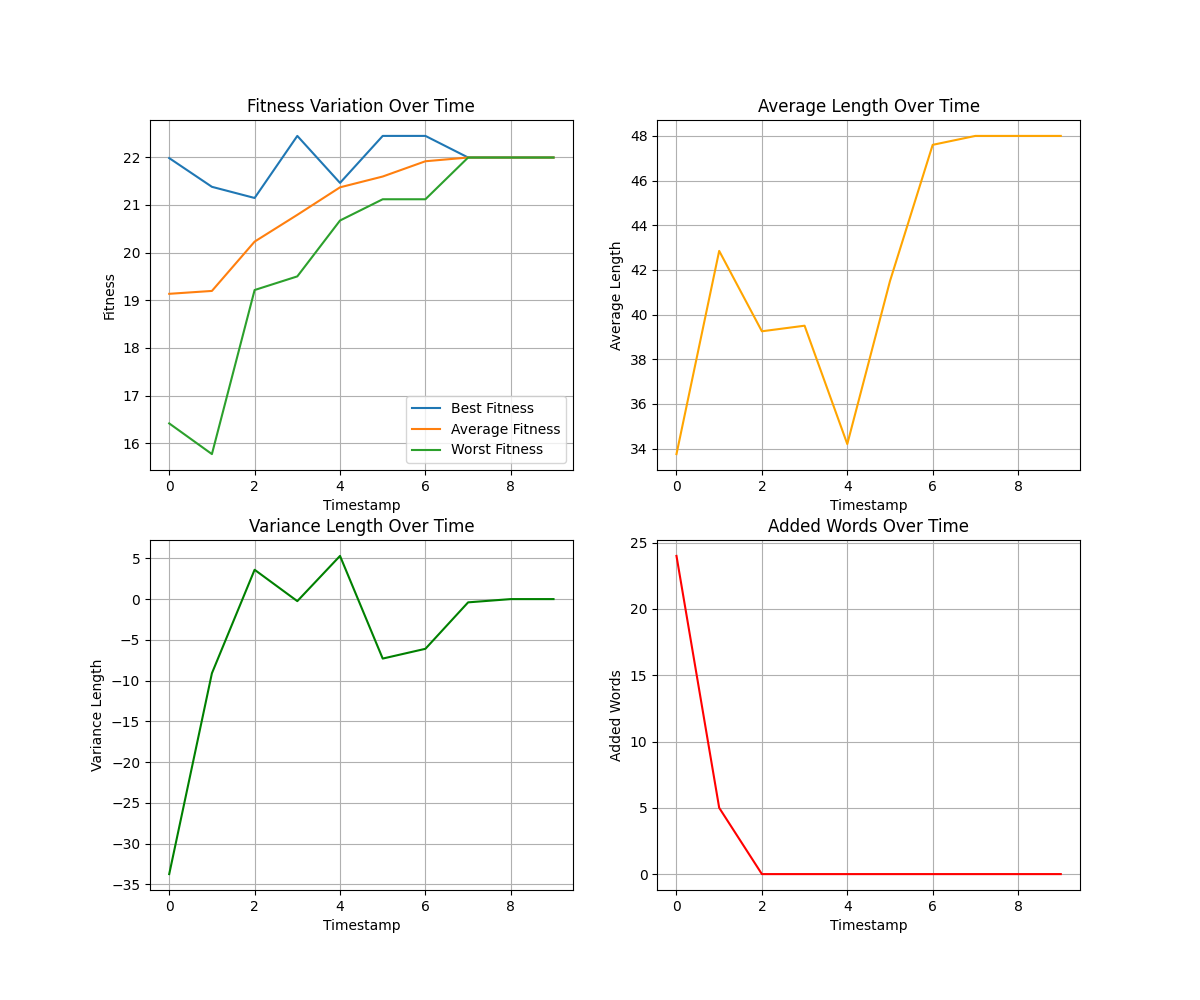
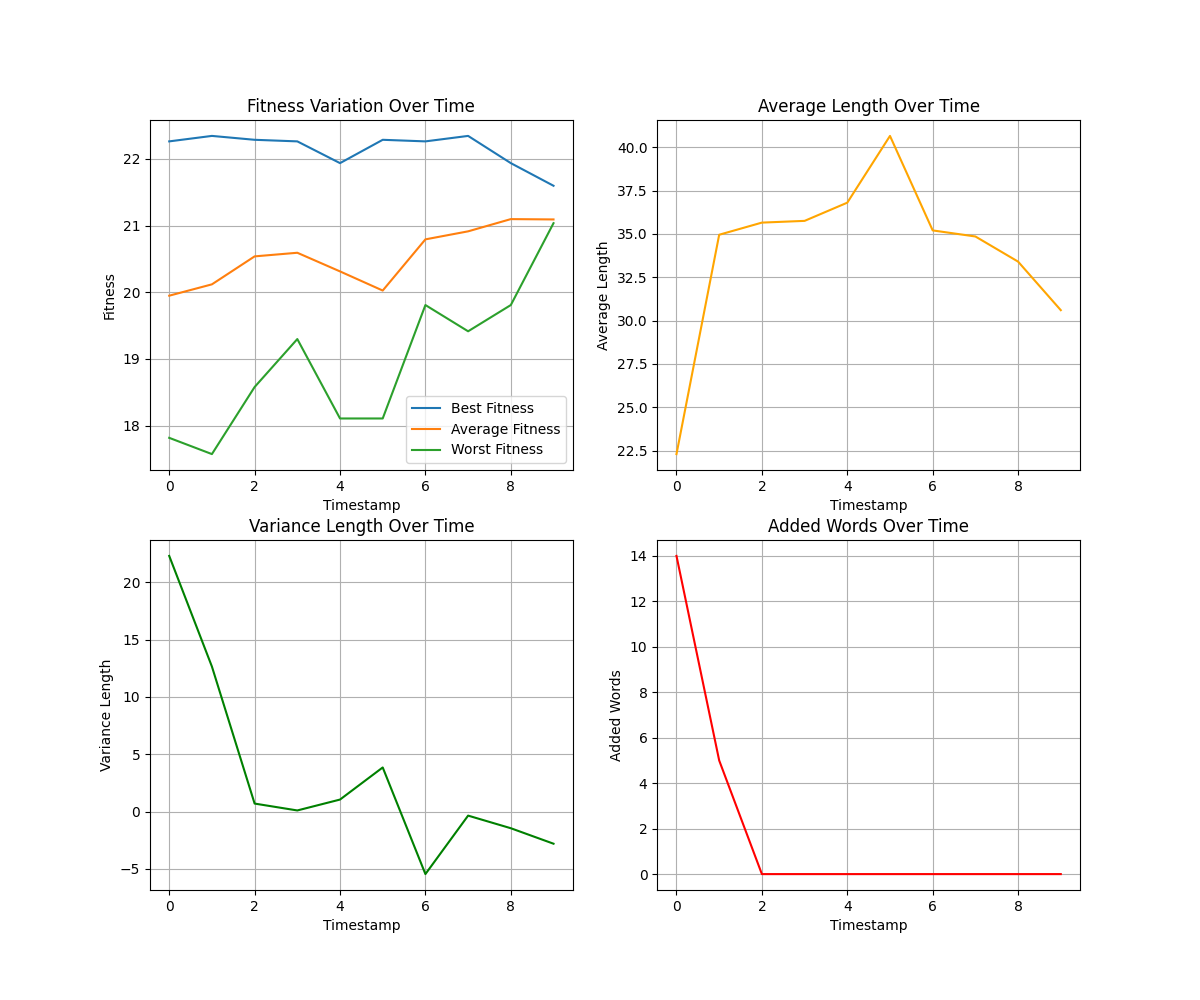
Adder two more selection methods

diff --git a/main.py b/main.py
@@ -13,6 +13,7 @@ from pathlib import Path
 import pandas
 import string
 import matplotlib.pyplot as plt
+import random
 
 script_dir = os.path.abspath(os.path.dirname(__file__))
 device = "cuda:0"
@@ -141,6 +142,52 @@ def crossover_mutation(model, tokenizer, text1, text2):
     output_text = tokenizer.batch_decode(out.cpu(), skip_special_tokens=True)[0]
     return get_final_prompt(output_text)
 
+def roulette_wheel_selection(fitness_scores, population, children_number):
+    # selection using roulette wheel
+    fitness_probs = np.array([score / sum(fitness_scores) for score in fitness_scores], dtype=np.float32)
+    selected_parents = [
+        population[i.item()] for i in torch.multinomial(
+            torch.tensor(fitness_probs), num_samples=children_number, replacement=True
+        )
+    ]
+    return selected_parents
+
+def tournament_selection(fitness_scores, population, children_number, tournament_size):
+    selected_parents = []
+    for _ in range(children_number):
+        # randomly select `tournament_size` individuals from the population
+        tournament_indices = np.random.choice(len(population), tournament_size, replace=False)
+        tournament_individuals = [population[i] for i in tournament_indices]
+        tournament_fitness = [fitness_scores[i] for i in tournament_indices]
+
+        # Select the individual with the highest fitness
+        best_individual_index = np.argmax(tournament_fitness)
+        selected_parents.append(tournament_individuals[best_individual_index])
+
+    return selected_parents
+
+def rank_selection(fitness_scores, population, children_number):
+    # Rank individuals based on their fitness scores
+    # Negative sign for descending order
+    sorted_indices = np.argsort(-np.array(fitness_scores))  
+    ranked_population = [population[i] for i in sorted_indices]
+    
+    # Assign ranks (highest fitness gets highest rank)
+    ranks = np.arange(len(fitness_scores), 0, -1)
+
+    # Assign probabilities proportional to ranks
+    rank_sum = sum(ranks)
+    rank_probs = np.array([rank / rank_sum for rank in ranks], dtype=np.float32)
+
+    # Use roulette wheel or similar selection method
+    selected_parents = [
+        ranked_population[i.item()] for i in torch.multinomial(
+            torch.tensor(rank_probs), num_samples=children_number, replacement=True
+        )
+    ]
+
+    return selected_parents
+
 # Tune prompts using GA
 def ga_run(loader, initial_population, clip_model, clip_processor, model, tokenizer, generations=10, pop_size=10, children_number=20):
     last_average_lenght = 0
@@ -169,13 +216,10 @@ def ga_run(loader, initial_population, clip_model, clip_processor, model, tokeni
         print("\n")
 
         if(not generation + 1 == generations):
-            # Selection using roulette wheel
-            fitness_probs = np.array([score / sum(fitness_scores) for score in fitness_scores], dtype=np.float32)
-            selected_parents = [
-                population[i.item()] for i in torch.multinomial(
-                    torch.tensor(fitness_probs), num_samples=children_number, replacement=True
-                )
-            ]
+            #selected_parents = roulette_wheel_selection(fitness_scores, population, children_number)
+            #selected_parents = tournament_selection(fitness_scores, population, children_number, 2)
+            selected_parents = rank_selection(fitness_scores, population, children_number)
+
             # Crossover and mutation to generate children
             new_population = []
             for _ in tqdm(range(children_number), desc="Generation"):
@@ -201,6 +245,8 @@ def ga_run(loader, initial_population, clip_model, clip_processor, model, tokeni
 if __name__ == "__main__":
     # Set up the models and dataset
     torch.manual_seed(seed)
+    random.seed(seed)
+    np.random.seed(seed)
 
     clip_model = CLIPModel.from_pretrained("openai/clip-vit-large-patch14").to(device).eval()
     clip_processor = CLIPProcessor.from_pretrained("openai/clip-vit-large-patch14")
@@ -218,87 +264,90 @@ if __name__ == "__main__":
 
     # Initial population of prompts
     initial_population = [
-        'a bad photo of a {}.',
-        'a photo of many {}.',
-        'a sculpture of a {}.',
-        'a photo of the hard to see {}.',
-        'a low resolution photo of the {}.',
-        'a rendering of a {}.',
-        'graffiti of a {}.',
-        'a bad photo of the {}.',
-        'a cropped photo of the {}.',
-        'a tattoo of a {}.',
-        'the embroidered {}.',
-        'a photo of a hard to see {}.',
-        'a bright photo of a {}.',
-        'a photo of a clean {}.',
-        'a photo of a dirty {}.',
-        'a dark photo of the {}.',
-        'a drawing of a {}.',
-        'a photo of my {}.',
-        'the plastic {}.',
-        'a photo of the cool {}.',
-        'a close-up photo of a {}.',
-        'a black and white photo of the {}.',
-        'a painting of the {}.',
-        'a painting of a {}.',
-        'a pixelated photo of the {}.',
-        'a sculpture of the {}.',
-        'a bright photo of the {}.',
-        'a cropped photo of a {}.',
-        'a plastic {}.',
-        'a photo of the dirty {}.',
-        'a jpeg corrupted photo of a {}.',
-        'a blurry photo of the {}.',
-        'a photo of the {}.',
-        'a good photo of the {}.',
-        'a rendering of the {}.',
-        'a {} in a video game.',
-        'a photo of one {}.',
-        'a doodle of a {}.',
-        'a close-up photo of the {}.',
-        'a photo of a {}.',
-        'the origami {}.',
-        'the {} in a video game.',
-        'a sketch of a {}.',
-        'a doodle of the {}.',
-        'a origami {}.',
-        'a low resolution photo of a {}.',
-        'the toy {}.',
-        'a rendition of the {}.',
-        'a photo of the clean {}.',
-        'a photo of a large {}.',
-        'a rendition of a {}.',
-        'a photo of a nice {}.',
-        'a photo of a weird {}.',
-        'a blurry photo of a {}.',
-        'a cartoon {}.',
-        'art of a {}.',
-        'a sketch of the {}.',
-        'a embroidered {}.',
-        'a pixelated photo of a {}.',
-        'itap of the {}.',
-        'a jpeg corrupted photo of the {}.',
-        'a good photo of a {}.',
-        'a plushie {}.',
-        'a photo of the nice {}.',
-        'a photo of the small {}.',
-        'a photo of the weird {}.',
-        'the cartoon {}.',
-        'art of the {}.',
-        'a drawing of the {}.',
-        'a photo of the large {}.',
-        'a black and white photo of a {}.',
-        'the plushie {}.',
-        'a dark photo of a {}.',
-        'itap of a {}.',
-        'graffiti of the {}.',
-        'a toy {}.',
-        'itap of my {}.',
-        'a photo of a cool {}.',
-        'a photo of a small {}.',
-        'a tattoo of the {}.',
+        'a bad photo of a <tag>.',
+        'a photo of many <tag>.',
+        'a sculpture of a <tag>.',
+        'a photo of the hard to see <tag>.',
+        'a low resolution photo of the <tag>.',
+        'a rendering of a <tag>.',
+        'graffiti of a <tag>.',
+        'a bad photo of the <tag>.',
+        'a cropped photo of the <tag>.',
+        'a tattoo of a <tag>.',
+        'the embroidered <tag>.',
+        'a photo of a hard to see <tag>.',
+        'a bright photo of a <tag>.',
+        'a photo of a clean <tag>.',
+        'a photo of a dirty <tag>.',
+        'a dark photo of the <tag>.',
+        'a drawing of a <tag>.',
+        'a photo of my <tag>.',
+        'the plastic <tag>.',
+        'a photo of the cool <tag>.',
+        'a close-up photo of a <tag>.',
+        'a black and white photo of the <tag>.',
+        'a painting of the <tag>.',
+        'a painting of a <tag>.',
+        'a pixelated photo of the <tag>.',
+        'a sculpture of the <tag>.',
+        'a bright photo of the <tag>.',
+        'a cropped photo of a <tag>.',
+        'a plastic <tag>.',
+        'a photo of the dirty <tag>.',
+        'a jpeg corrupted photo of a <tag>.',
+        'a blurry photo of the <tag>.',
+        'a photo of the <tag>.',
+        'a good photo of the <tag>.',
+        'a rendering of the <tag>.',
+        'a <tag> in a video game.',
+        'a photo of one <tag>.',
+        'a doodle of a <tag>.',
+        'a close-up photo of the <tag>.',
+        'a photo of a <tag>.',
+        'the origami <tag>.',
+        'the <tag> in a video game.',
+        'a sketch of a <tag>.',
+        'a doodle of the <tag>.',
+        'a origami <tag>.',
+        'a low resolution photo of a <tag>.',
+        'the toy <tag>.',
+        'a rendition of the <tag>.',
+        'a photo of the clean <tag>.',
+        'a photo of a large <tag>.',
+        'a rendition of a <tag>.',
+        'a photo of a nice <tag>.',
+        'a photo of a weird <tag>.',
+        'a blurry photo of a <tag>.',
+        'a cartoon <tag>.',
+        'art of a <tag>.',
+        'a sketch of the <tag>.',
+        'a embroidered <tag>.',
+        'a pixelated photo of a <tag>.',
+        'itap of the <tag>.',
+        'a jpeg corrupted photo of the <tag>.',
+        'a good photo of a <tag>.',
+        'a plushie <tag>.',
+        'a photo of the nice <tag>.',
+        'a photo of the small <tag>.',
+        'a photo of the weird <tag>.',
+        'the cartoon <tag>.',
+        'art of the <tag>.',
+        'a drawing of the <tag>.',
+        'a photo of the large <tag>.',
+        'a black and white photo of a <tag>.',
+        'the plushie <tag>.',
+        'a dark photo of a <tag>.',
+        'itap of a <tag>.',
+        'graffiti of the <tag>.',
+        'a toy <tag>.',
+        'itap of my <tag>.',
+        'a photo of a cool <tag>.',
+        'a photo of a small <tag>.',
+        'a tattoo of the <tag>.',
     ]
+
+    initial_population = random.choices(initial_population, k=10)
+    print(initial_population)
 
     # Run the genetic algorithm
     best_prompt, best_score = ga_run(loader, initial_population, clip_model, clip_processor, alpaca_model, alpaca_tokenizer)

diff --git a/temp.py b/temp.py
@@ -1,0 +1,60 @@
+from torch.utils.data import Dataset
+import os
+import random
+import pandas
+from tqdm import tqdm
+from transformers import CLIPProcessor, CLIPModel, BitsAndBytesConfig
+from PIL import Image
+from torch.utils.data import DataLoader, random_split
+import torch
+import transformers
+import numpy as np
+from pathlib import Path
+import pandas
+import string
+import matplotlib.pyplot as plt
+import random
+
+script_dir = os.path.abspath(os.path.dirname(__file__))
+
+data = pandas.read_csv(os.path.join(script_dir, "run_recap.csv"), header=None)
+
+# Assign column names based on the description
+data.columns = ["timestamp", "best_fitness", "average_fitness", "worst_fitness", "average_length", "variance_length", "added_word"]
+
+# Create a 2x2 grid for the plots
+fig, axes = plt.subplots(2, 2, figsize=(12, 10))
+
+# Plot 1: Variation in time of best, average, and worst fitness
+axes[0, 0].plot(data["timestamp"], data["best_fitness"], label="Best Fitness")
+axes[0, 0].plot(data["timestamp"], data["average_fitness"], label="Average Fitness")
+axes[0, 0].plot(data["timestamp"], data["worst_fitness"], label="Worst Fitness")
+axes[0, 0].set_xlabel("Timestamp")
+axes[0, 0].set_ylabel("Fitness")
+axes[0, 0].set_title("Fitness Variation Over Time")
+axes[0, 0].legend()
+axes[0, 0].grid()
+
+# Plot 2: Variation in time of average length
+axes[0, 1].plot(data["timestamp"], data["average_length"], label="Average Length", color="orange")
+axes[0, 1].set_xlabel("Timestamp")
+axes[0, 1].set_ylabel("Average Length")
+axes[0, 1].set_title("Average Length Over Time")
+axes[0, 1].grid()
+
+# Plot 3: Variation in time of variance length
+axes[1, 0].plot(data["timestamp"], data["variance_length"], label="Variance Length", color="green")
+axes[1, 0].set_xlabel("Timestamp")
+axes[1, 0].set_ylabel("Variance Length")
+axes[1, 0].set_title("Variance Length Over Time")
+axes[1, 0].grid()
+
+# Plot 4: Variation in time of added words
+axes[1, 1].plot(data["timestamp"], data["added_word"], label="Added Words", color="red")
+axes[1, 1].set_xlabel("Timestamp")
+axes[1, 1].set_ylabel("Added Words")
+axes[1, 1].set_title("Added Words Over Time")
+axes[1, 1].grid()
+
+# Save the combined figure
+plt.savefig(os.path.join(script_dir, "combined_graphs.png"))
